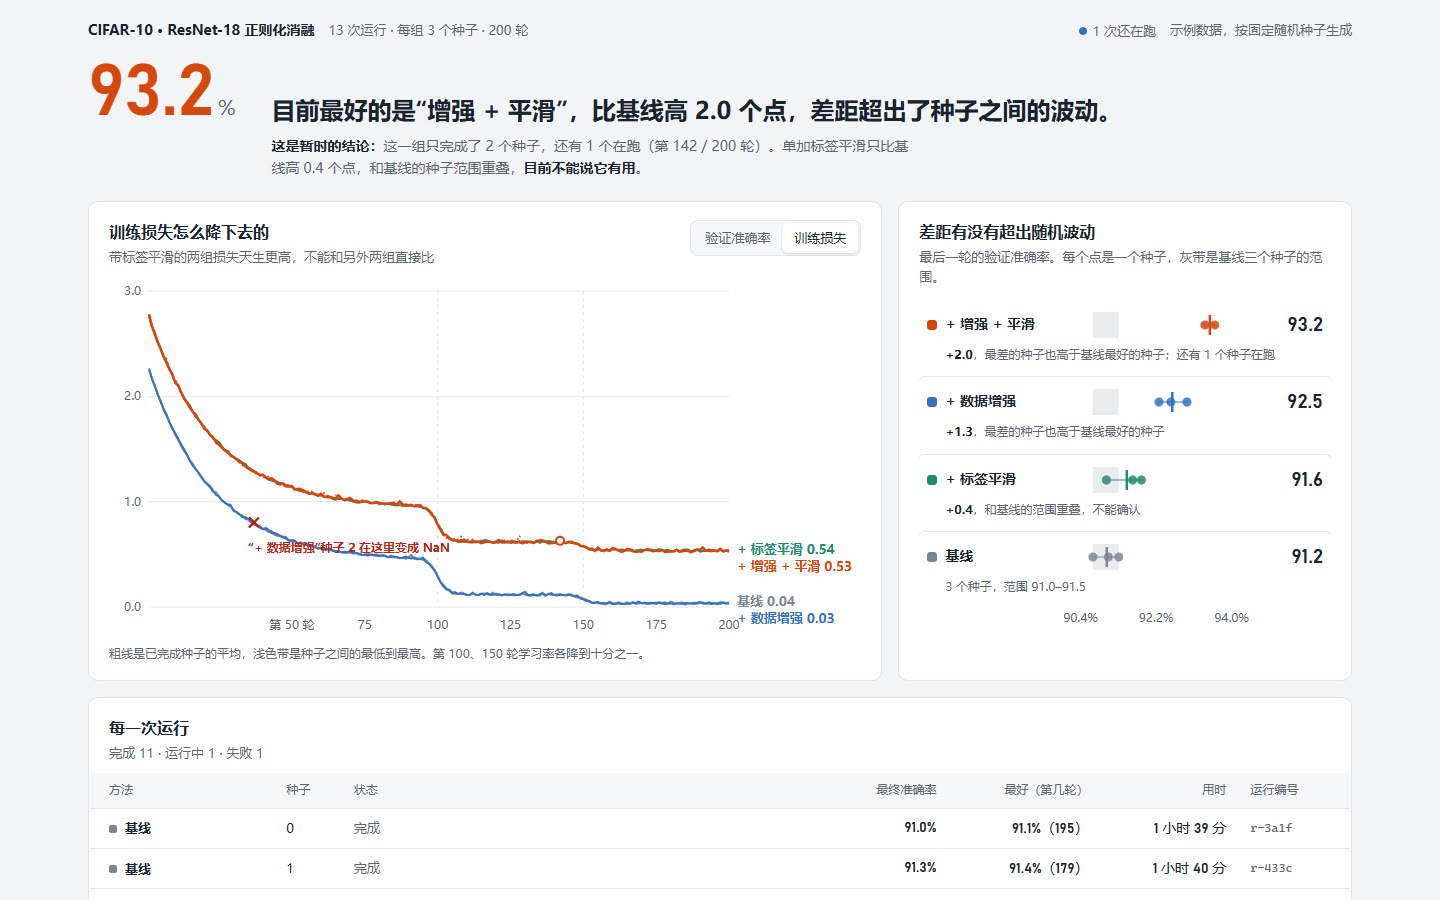
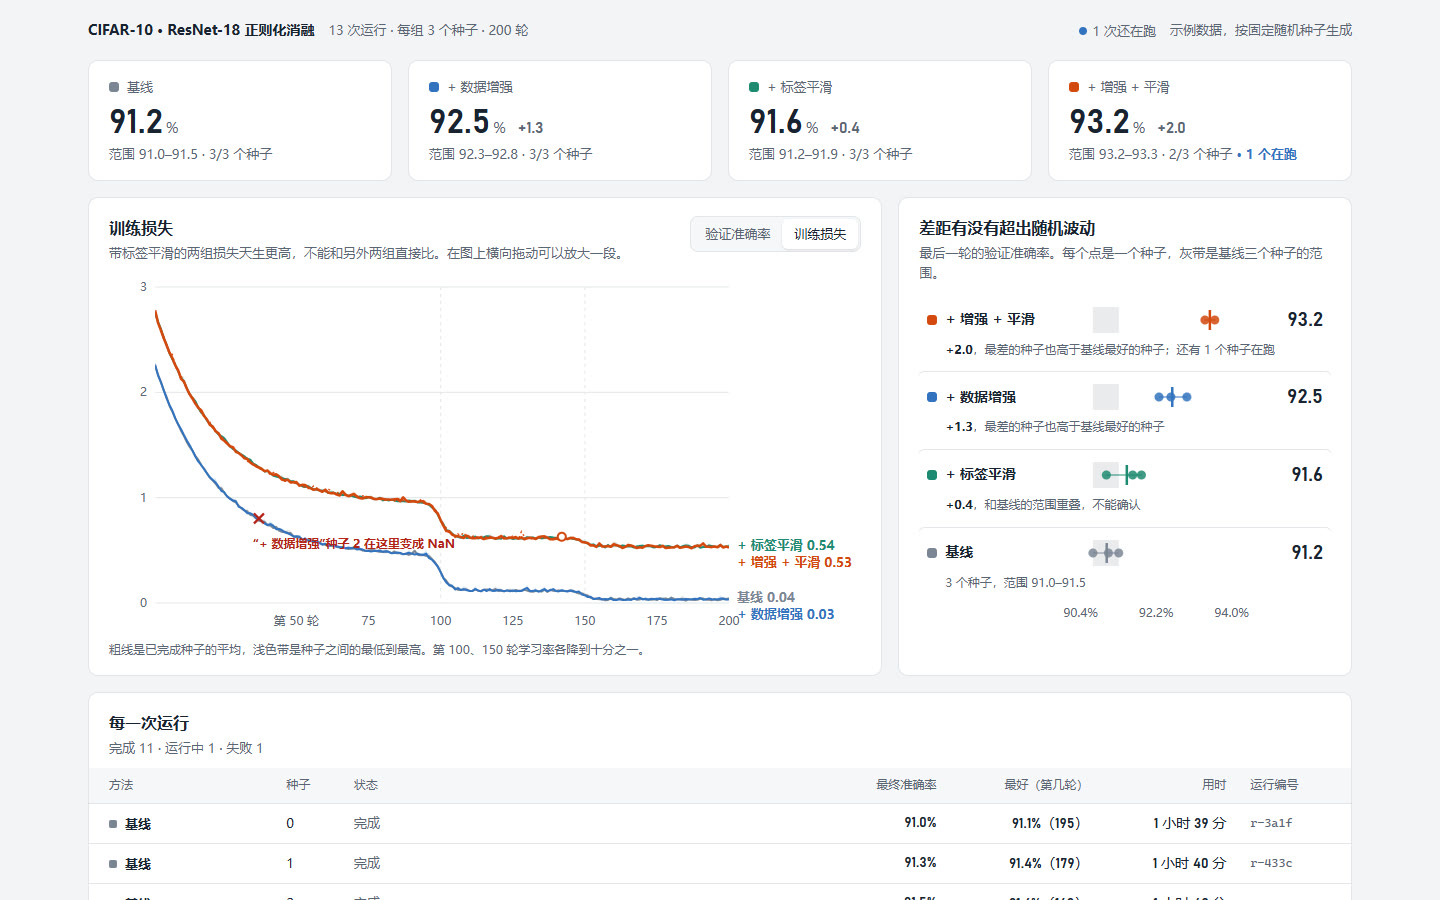
11.12 frontend-craft 维护：看板改成只摆数据并可放大，手记分清道理和口味
- 用户指出：看板上的分析是看的人自己做的，只放数据；结论先行的写法属于报告。默认头部改成指标卡，每张带种子范围和完成进度；“结论先行”留作选项。
- 按用户提到的“数据多了要能看局部”：图上横向拖动放大一段，纵轴随这一段重新定范围，可还原。
- 手记改正上一条的过度纠正：标题用宋体还是粗体是用户的个人偏好，不是规则；记下“先分清对方的理由是普遍道理还是个人口味”。

diff --git a/maintenance/frontend-craft/practice/2026-11/dashboard/index.html b/maintenance/frontend-craft/practice/2026-11/dashboard/index.html
@@ -33,7 +33,7 @@
   .kpi { background: var(--surface); border: 1px solid var(--line); border-radius: 10px; padding: 16px 20px; }
   .kpi .k { font-size: 13px; color: var(--ink-2); display: flex; align-items: center; gap: 8px; } .kpi .k i { width: 10px; height: 10px; border-radius: 3px; }
   .kpi .v { font: 600 34px/1.2 var(--num); margin-top: 6px; } .kpi .v small { font: 14px var(--sans); color: var(--ink-2); margin-left: 3px; }
-  .kpi .d { font-size: 13px; color: var(--ink-2); }
+  .kpi .d { font-size: 13px; color: var(--ink-2); } .kpi .delta { font: 500 16px var(--num); color: var(--ink-2); margin-left: 12px; } .kpi .running { color: var(--run); font-weight: 700; }
   @media (max-width: 640px) { .kpis { grid-template-columns: 1fr 1fr; gap: 10px; } .kpi { padding: 12px 14px; } .kpi .v { font-size: 28px; } }
   .grid { display: grid; grid-template-columns: minmax(0, 1.75fr) minmax(320px, 1fr); gap: 16px; }
   .card { background: var(--surface); border: 1px solid var(--line); border-radius: 10px; padding: 18px 20px 16px; min-width: 0; }
@@ -43,7 +43,9 @@
   .seg { display: inline-flex; background: var(--wash); border: 1px solid var(--line); border-radius: 8px; padding: 2px; }
   .seg button { font: 500 13px var(--sans); border: 0; background: transparent; color: var(--ink-2); height: 30px; padding: 0 12px; border-radius: 6px; cursor: pointer; }
   .seg button[aria-pressed="true"] { background: var(--surface); color: var(--ink); box-shadow: 0 1px 2px rgba(26, 34, 48, .14); }
-  #chart { margin-top: 10px; position: relative; }
+  .tools { display: flex; gap: 8px; align-items: center; }
+  .ghost { font: 500 13px var(--sans); height: 34px; padding: 0 12px; border-radius: 8px; border: 1px solid var(--ink); background: var(--surface); color: var(--ink); cursor: pointer; }
+  #chart { margin-top: 10px; position: relative; user-select: none; }
   #chart svg { display: block; width: 100%; overflow: visible; }
   svg text { font: 12px var(--sans); fill: var(--ink-2); }
   svg .end { font: 600 13px var(--sans); }
@@ -115,7 +117,8 @@
     <section class="card">
       <div class="head">
         <div><h2 id="chart-title"></h2><p class="sub" id="chart-sub"></p></div>
-        <div class="seg" id="metric" role="group" aria-label="指标"><button type="button" data-m="acc" aria-pressed="true">验证准确率</button><button type="button" data-m="loss" aria-pressed="false">训练损失</button></div>
+        <div class="tools"><button type="button" id="zoom" class="ghost" hidden>看全部</button>
+        <div class="seg" id="metric" role="group" aria-label="指标"><button type="button" data-m="acc" aria-pressed="true">验证准确率</button><button type="button" data-m="loss" aria-pressed="false">训练损失</button></div></div>
       </div>
       <div id="chart"></div>
       <p class="note">粗线是已完成种子的平均，浅色带是种子之间的最低到最高。第 100、150 轮学习率各降到十分之一。</p>
@@ -135,7 +138,7 @@
       <tbody id="rows"></tbody>
     </table></div>
   </section>
-  <p class="foot">练习页面：数据是合成的，用来练习“看板先回答问题”。把鼠标移到曲线上看每一轮的数值；点右侧某一行，只看这一组。</p>
+  <p class="foot">练习页面：数据是合成的，用来练习“看板先回答问题”。把鼠标移到曲线上看每一轮的数值；在图上横向拖动放大一段，双击还原；点右侧某一行，只突出这一组。</p>
 </div>
 
 <script>
@@ -181,10 +184,12 @@
     const ranked = METHODS.slice().sort((a, b) => stats[b.id].mean - stats[a.id].mean), top = ranked[0], s = stats[top.id], b = stats.base;
     const running = RUNS.filter(r => r.mid === top.id && r.status === 'running').length;
     const clear = s.min > b.max;
-    if (/[?&]head=cards/.test(location.search)) {   // 对照用：常见的“一排指标卡”
+    if (!/[?&]head=answer/.test(location.search)) {   // 默认只摆数据，分析留给看的人；?head=answer 是“结论先行”的写法
       $('answer').className = 'kpis';
-      $('answer').innerHTML = METHODS.map(m => { const st = stats[m.id], d = st.mean - b.mean;
-        return `<div class="kpi"><div class="k"><i style="background:${m.color}"></i>${m.name}</div><div class="v">${f1(st.mean)}<small>%</small></div><div class="d">${m.id === 'base' ? `${st.n} 个种子` : `${d >= 0 ? '+' : ''}${f1(d)} · ${st.n} 个种子`}</div></div>`; }).join('');
+      $('answer').innerHTML = METHODS.map(m => { const st = stats[m.id], d = st.mean - b.mean, total = RUNS.filter(r => r.mid === m.id && r.status !== 'failed').length, run = total - st.n;
+        return `<div class="kpi"><div class="k"><i style="background:${m.color}"></i>${m.name}</div>
+          <div class="v">${f1(st.mean)}<small>%</small>${m.id === 'base' ? '' : `<span class="delta">${d >= 0 ? '+' : ''}${f1(d)}</span>`}</div>
+          <div class="d">范围 ${f1(st.min)}–${f1(st.max)} · ${st.n}/${total} 个种子${run ? `<span class="running"> · ${run} 个在跑</span>` : ''}</div></div>`; }).join('');
       return;
     }
     $('answer').innerHTML = `<div class="big num">${f1(s.mean)}<small>%</small></div>
@@ -193,47 +198,65 @@
   })();
 
   // —— 曲线：按容器的实际宽度画，字号永远是真实的 12、13 像素 ——
+  let view = null;   // 放大后看的轮数范围 [从, 到]
+  function niceTicks(lo, hi, n) { const raw = (hi - lo) / n, mag = Math.pow(10, Math.floor(Math.log10(raw))), st = [1, 2, 2.5, 5, 10].map(k => k * mag).find(s => s >= raw);
+    const out = []; for (let v = Math.ceil(lo / st - 1e-9) * st; v <= hi + 1e-9; v += st) out.push(+v.toFixed(6)); return out; }
   function drawChart() {
-    const box = $('chart'), W = box.clientWidth, narrow = W < 520, H = narrow ? 260 : 360, L = 40, R = narrow ? 58 : 132, T = 14, B = 30;
-    const key = metric, range = key === 'acc' ? [84, 95] : [0, 3], x0 = key === 'acc' ? 40 : 1;   // 准确率从第 40 轮画起：之前低于 84%，画出来只会贴在底边上
-    const x = (e) => L + (e - x0) / (E - x0) * (W - L - R), y = (v) => T + (1 - (Math.min(Math.max(v, range[0]), range[1]) - range[0]) / (range[1] - range[0])) * (H - T - B);
-    let s = '';
-    const ticks = key === 'acc' ? [84, 86, 88, 90, 92, 94] : [0, 1, 2, 3];   // 轴要盖住全部数据，线不能贴在边框上走
-    ticks.forEach((v, i) => { s += `<line x1="${L}" x2="${W - R}" y1="${y(v)}" y2="${y(v)}" stroke="var(--line)"/><text x="${L - 8}" y="${y(v) + 4}" text-anchor="end">${key === 'acc' ? v + (i === ticks.length - 1 ? '%' : '') : v.toFixed(1)}</text>`; });
-    (narrow ? [50, 100, 150, 200] : [50, 75, 100, 125, 150, 175, 200]).forEach(e => { s += `<text x="${x(e)}" y="${H - 8}" text-anchor="middle">${e === 50 ? '第 50 轮' : e}</text>`; });
-    [100, 150].forEach(e => { s += `<line x1="${x(e)}" x2="${x(e)}" y1="${T}" y2="${H - B}" stroke="var(--line)" stroke-dasharray="3 4"/>`; });
-    const ends = [];
+    const box = $('chart'), W = box.clientWidth, narrow = W < 520, H = narrow ? 260 : 360, L = 46, R = narrow ? 58 : 132, T = 14, B = 30;
+    const key = metric, x0 = view ? view[0] : key === 'acc' ? 40 : 1, x1 = view ? view[1] : E;   // 准确率默认从第 40 轮画起：之前低于 84%
+    let range = key === 'acc' ? [84, 95] : [0, 3];
+    if (view) { let lo = Infinity, hi = -Infinity;   // 放大时纵轴跟着这一段的数据重新定，局部的差别才看得出来
+      RUNS.filter(r => r.status !== 'failed').forEach(r => { for (let e = x0; e <= Math.min(x1, r.stop); e++) { const v = r[key][e - 1]; if (v < lo) lo = v; if (v > hi) hi = v; } });
+      const pad = (hi - lo) * 0.08 || 0.1; range = [lo - pad, hi + pad]; }
+    const x = (e) => L + (e - x0) / (x1 - x0) * (W - L - R), y = (v) => T + (1 - (v - range[0]) / (range[1] - range[0])) * (H - T - B);
+    const fmt = (v) => key === 'acc' ? f1(v) : v.toFixed(2);
+    let s = `<defs><clipPath id="plot"><rect x="${L}" y="${T - 2}" width="${W - L - R}" height="${H - T - B + 4}"/></clipPath></defs>`;
+    const yt = view ? niceTicks(range[0], range[1], 5) : key === 'acc' ? [84, 86, 88, 90, 92, 94] : [0, 1, 2, 3];
+    const gap = yt.length > 1 ? yt[1] - yt[0] : 1, dec = gap >= 1 ? 0 : gap >= 0.1 ? 1 : 2;
+    yt.forEach((v, i) => { s += `<line x1="${L}" x2="${W - R}" y1="${y(v)}" y2="${y(v)}" stroke="var(--line)"/><text x="${L - 8}" y="${y(v) + 4}" text-anchor="end">${v.toFixed(dec)}${key === 'acc' && i === yt.length - 1 ? '%' : ''}</text>`; });
+    const xt = (view ? niceTicks(x0, x1, narrow ? 4 : 7) : narrow ? [50, 100, 150, 200] : [50, 75, 100, 125, 150, 175, 200]).filter(e => Number.isInteger(e) && e >= x0);
+    xt.forEach((e, i) => { s += `<text x="${x(e)}" y="${H - 8}" text-anchor="middle">${i === 0 ? `第 ${e} 轮` : e}</text>`; });
+    [100, 150].filter(e => e > x0 && e < x1).forEach(e => { s += `<line x1="${x(e)}" x2="${x(e)}" y1="${T}" y2="${H - B}" stroke="var(--line)" stroke-dasharray="3 4"/>`; });
+    const ends = []; s += '<g clip-path="url(#plot)">';
     METHODS.forEach(m => {
       const rs = RUNS.filter(r => r.mid === m.id && r.status !== 'failed'), full = rs.filter(r => r.status === 'done'), faded = focus && focus !== m.id;
       let top = '', bot = '', mean = '';
-      for (let e = x0; e <= E; e++) { const vs = full.map(r => r[key][e - 1]); const mn = Math.min(...vs), mx = Math.max(...vs), av = vs.reduce((a, b) => a + b, 0) / vs.length;
+      for (let e = x0; e <= x1; e++) { const vs = full.map(r => r[key][e - 1]); const mn = Math.min(...vs), mx = Math.max(...vs), av = vs.reduce((a, b) => a + b, 0) / vs.length;
         top += `${e === x0 ? 'M' : 'L'}${x(e).toFixed(1)} ${y(mx).toFixed(1)}`; bot = `L${x(e).toFixed(1)} ${y(mn).toFixed(1)}` + bot; mean += `${e === x0 ? 'M' : 'L'}${x(e).toFixed(1)} ${y(av).toFixed(1)}`;
-        if (e === E) ends.push({ m, v: av, y: y(av) }); }
+        if (e === x1) ends.push({ m, v: av, y: y(av) }); }
       s += `<g opacity="${faded ? 0.12 : 1}"><path d="${top}${bot}Z" fill="${m.color}" opacity=".16"/><path d="${mean}" fill="none" stroke="${m.color}" stroke-width="${m.id === 'both' ? 2.6 : 2}" stroke-linejoin="round"/>`;
-      rs.filter(r => r.status === 'running').forEach(r => { let d = ''; for (let e = x0; e <= r.stop; e++) d += `${e === x0 ? 'M' : 'L'}${x(e).toFixed(1)} ${y(r[key][e - 1]).toFixed(1)}`;
-        s += `<path d="${d}" fill="none" stroke="${m.color}" stroke-width="1.4" stroke-dasharray="2 3"/><circle cx="${x(r.stop)}" cy="${y(r[key][r.stop - 1])}" r="4" fill="var(--surface)" stroke="${m.color}" stroke-width="2"/>`; });
+      rs.filter(r => r.status === 'running' && r.stop > x0).forEach(r => { let d = ''; const to = Math.min(r.stop, x1); for (let e = x0; e <= to; e++) d += `${e === x0 ? 'M' : 'L'}${x(e).toFixed(1)} ${y(r[key][e - 1]).toFixed(1)}`;
+        s += `<path d="${d}" fill="none" stroke="${m.color}" stroke-width="1.4" stroke-dasharray="2 3"/>${r.stop <= x1 ? `<circle cx="${x(r.stop)}" cy="${y(r[key][r.stop - 1])}" r="4" fill="var(--surface)" stroke="${m.color}" stroke-width="2"/>` : ''}`; });
       s += '</g>';
     });
+    s += '</g>';
     // 线尾直接写名字和数值，不用图例；挨得太近就上下错开
     ends.sort((a, b) => a.y - b.y); for (let i = 1; i < ends.length; i++) if (ends[i].y - ends[i - 1].y < 17) ends[i].y = ends[i - 1].y + 17;
     ends.forEach(({ m, v, y: yy }) => { const faded = focus && focus !== m.id;
-      s += `<text class="end" x="${W - R + 8}" y="${yy + 4}" style="fill:${m.color}" opacity="${faded ? 0.25 : 1}">${narrow ? '' : m.name + '  '}${key === 'acc' ? f1(v) : v.toFixed(2)}</text>`; });
+      s += `<text class="end" x="${W - R + 8}" y="${yy + 4}" style="fill:${m.color}" opacity="${faded ? 0.25 : 1}">${narrow ? '' : m.name + '  '}${fmt(v)}</text>`; });
     const fail = RUNS.find(r => r.status === 'failed');
-    if (key === 'loss' && (!focus || focus === fail.mid)) { const fx = x(fail.stop), fy = y(fail.loss[fail.stop - 2]);
+    if (key === 'loss' && fail.stop > x0 && fail.stop < x1 && (!focus || focus === fail.mid)) { const fx = x(fail.stop), fy = y(fail.loss[fail.stop - 2]);
       s += `<path d="M${fx - 5} ${fy - 5}l10 10m0-10l-10 10" stroke="var(--fail)" stroke-width="2.4"/><text x="${fx - 6}" y="${fy + 30}" style="fill:var(--fail);font-weight:700">“+ 数据增强”种子 2 在这里变成 NaN</text>`; }
-    s += `<line id="cross" y1="${T}" y2="${H - B}" stroke="var(--ink)" stroke-width="1" opacity="0"/><rect id="hit" x="${L}" y="${T}" width="${W - L - R}" height="${H - T - B}" fill="transparent"/>`;
-    box.innerHTML = `<svg viewBox="0 0 ${W} ${H}" height="${H}" role="img" aria-label="${key === 'acc' ? '验证准确率' : '训练损失'}随训练轮数的变化，四组方法">${s}</svg><div class="tip" hidden></div>`;
-    const tip = box.querySelector('.tip'), cross = box.querySelector('#cross');
-    const move = (ev) => { const r = box.getBoundingClientRect(), px = (ev.touches ? ev.touches[0].clientX : ev.clientX) - r.left;
-      const e = Math.round(Math.min(E, Math.max(x0, x0 + (px - L) / (W - L - R) * (E - x0))));
+    s += `<rect id="sel" y="${T}" height="${H - T - B}" width="0" fill="var(--ink)" opacity=".08"/><line id="cross" y1="${T}" y2="${H - B}" stroke="var(--ink)" stroke-width="1" opacity="0"/><rect id="hit" x="${L}" y="${T}" width="${W - L - R}" height="${H - T - B}" fill="transparent" style="cursor:crosshair"/>`;
+    box.innerHTML = `<svg viewBox="0 0 ${W} ${H}" height="${H}" role="img" aria-label="${key === 'acc' ? '验证准确率' : '训练损失'}随训练轮数的变化，四组方法，第 ${x0} 到 ${x1} 轮">${s}</svg><div class="tip" hidden></div>`;
+    const tip = box.querySelector('.tip'), cross = box.querySelector('#cross'), sel = box.querySelector('#sel'), hit = box.querySelector('#hit');
+    const epochAt = (ev) => { const px = (ev.touches ? ev.touches[0].clientX : ev.clientX) - box.getBoundingClientRect().left; return Math.round(Math.min(x1, Math.max(x0, x0 + (px - L) / (W - L - R) * (x1 - x0)))); };
+    let dragFrom = null;
+    const move = (ev) => { const e = epochAt(ev);
+      if (dragFrom !== null) { const a = Math.min(dragFrom, e), b = Math.max(dragFrom, e); sel.setAttribute('x', x(a)); sel.setAttribute('width', x(b) - x(a)); tip.hidden = true; return; }
       cross.setAttribute('x1', x(e)); cross.setAttribute('x2', x(e)); cross.setAttribute('opacity', .5);
       tip.hidden = false; tip.style.top = (T + 60) + 'px'; tip.style.left = Math.min(x(e), W - 190) + 'px';
       tip.innerHTML = `第 ${e} 轮<br>` + METHODS.map(m => { const vs = done(m.id).map(r => r[key][e - 1]), av = vs.reduce((a, b) => a + b, 0) / vs.length;
-        return `<i style="background:${m.color}"></i>${m.name}　<b>${key === 'acc' ? av.toFixed(1) + '%' : av.toFixed(2)}</b>`; }).join('<br>'); };
-    const hit = box.querySelector('#hit'); hit.addEventListener('mousemove', move); hit.addEventListener('touchmove', move, { passive: true });
-    hit.addEventListener('mouseleave', () => { tip.hidden = true; cross.setAttribute('opacity', 0); });
-    $('chart-title').textContent = key === 'acc' ? '验证准确率怎么涨上来的' : '训练损失怎么降下去的';
-    $('chart-sub').textContent = key === 'acc' ? '从第 40 轮画起，纵轴从 84% 开始；更早的部分爬升太快，画进来会把后面的差别压扁' : '带标签平滑的两组损失天生更高，不能和另外两组直接比';
+        return `<i style="background:${m.color}"></i>${m.name}　<b>${fmt(av)}${key === 'acc' ? '%' : ''}</b>`; }).join('<br>'); };
+    hit.addEventListener('mousemove', move); hit.addEventListener('touchmove', move, { passive: true });
+    hit.addEventListener('mousedown', (ev) => { dragFrom = epochAt(ev); ev.preventDefault(); });
+    hit.addEventListener('mouseup', (ev) => { if (dragFrom === null) return; const e = epochAt(ev), a = Math.min(dragFrom, e), b = Math.max(dragFrom, e); dragFrom = null;
+      if (b - a >= 5) { view = [a, b]; drawChart(); } else sel.setAttribute('width', 0); });
+    hit.addEventListener('dblclick', () => { view = null; drawChart(); });
+    hit.addEventListener('mouseleave', () => { tip.hidden = true; cross.setAttribute('opacity', 0); if (dragFrom !== null) { dragFrom = null; sel.setAttribute('width', 0); } });
+    $('zoom').hidden = !view;
+    $('chart-title').textContent = key === 'acc' ? '验证准确率' : '训练损失';
+    $('chart-sub').textContent = view ? `放大：第 ${x0}–${x1} 轮，纵轴按这一段的数据重新定了范围` : (key === 'acc' ? '从第 40 轮画起（更早的部分低于 84%）。' : '带标签平滑的两组损失天生更高，不能和另外两组直接比。') + (narrow ? '' : '在图上横向拖动可以放大一段。');
   }
 
   // —— 排名 ——
@@ -268,6 +291,7 @@
     $('runs-sub').textContent = `完成 ${c('done')} · 运行中 ${c('running')} · 失败 ${c('failed')}${focus ? ' · 只突出“' + METHODS.find(m => m.id === focus).name + '”，再点一次取消' : ''}`;
   }
   function all() { drawChart(); drawRank(); drawRows(); }
+  $('zoom').onclick = () => { view = null; drawChart(); };
   $('metric').addEventListener('click', (e) => { const b = e.target.closest('button'); if (!b) return; metric = b.dataset.m;
     $('metric').querySelectorAll('button').forEach(o => o.setAttribute('aria-pressed', String(o === b))); drawChart(); });
   const pick = (e) => { const row = e.target.closest('.rrow'); if (!row) return; if (e.type === 'keydown' && e.key !== 'Enter' && e.key !== ' ') return; e.preventDefault(); focus = focus === row.dataset.m ? null : row.dataset.m; all(); };

diff --git a/maintenance/frontend-craft/practice/2026-11/JOURNAL.md b/maintenance/frontend-craft/practice/2026-11/JOURNAL.md
@@ -116,10 +116,12 @@
 ### 用户看过之后（2026-11-12）
 
 - **标题选宋体（A）。** 这篇不是严肃报道，粗黑体的一级标题破坏了整体淡雅的效果；二级标题用粗体“其实还好”。
-  - 我押的是 B，理由是用户以前嫌标题层级弱。押错了。**学到的：层级够不够，要看页面的气质。淡雅的阅读页靠字号和留白就能立住标题，再加粗反而吵；用户以前嫌层级弱的是工具页和展示页。不能把一次偏好当成到处适用的规则。**
-  - 定稿：一、二级标题都用宋体。“一级宋体、二级粗黑体”做成了备选（`?title=mix`），默认不用。
+  - 我当时写“押错了”，还据此总结了一条规则。用户随后纠正：两版差别其实不大，选宋体是个人喜好，只是能说出一些理由；**页面整体好属于审美的共性，宋体还是粗体属于个性，不必因为他的个人喜好强行改变自己的想法。**
+  - 所以这一条不算规则，只记为这位用户的偏好。我自己的看法保留：在没有粗体宋体可用的 Windows 上，粗黑体标题的层级更稳；宋体更有书卷气。两种都成立。
+  - **真正学到的是方法：用户选了和我不同的一版时，先分清他给的理由是一条普遍的道理，还是个人口味。前者改进我的判断，后者只记为偏好，最多做成一个可选项。**
+  - 定稿：这一页按用户的偏好用宋体。“一级宋体、二级粗黑体”和全粗黑体都留作选项（`?title=mix`、`?title=sans`）。
 - **深色做得也美观，但不如浅色。** 接近纯黑的深色适合夜里看，或者某些特定气质的网站，适用面窄。
-  - **学到的：浅色是默认；深色是照顾夜间阅读的适配，不是一个值得花主要力气的设计方向。** 页面保持跟随系统设置，演示和截图以浅色为准。
+  - 这一条里有道理也有口味。道理：近黑的深色适用面窄，不该当成默认。口味：浅色更好看。页面保持跟随系统设置，演示和截图以浅色为准。
 - 整体评价：这种风格做到这个程度“已经算很不错了”。
 
 ### 没做的、没验证的
@@ -156,9 +158,19 @@
 2. 标注文字压在了另一条曲线上（NaN 那个叉的说明）。挪到曲线下方的空白处。
 3. 手机上“最终 当前 92.9%”两个词叠在一起，是给完成的运行加前缀时没考虑还在跑的那一行。
 
-### 拿不准、请用户选的
+### 用户看过之后（2026-11-12）
 
-头部用“结论先行”（一句话加一个大数字）还是常见的“一排指标卡”。我偏向前者；后者四个数字一样大，读者得自己比较、自己下结论，而且看不出“还有 1 个种子在跑”。
+我做了两种头部请用户选：A 是“结论先行”（一句话加一个大数字），B 是常见的“一排指标卡”。我偏向 A。
+
+- 用户：只看视觉，A 好一些（上面是文字、下面是图和数据，橙色的 93.2 也好看）；**但作为数据看板，B 成功得多。看板上的分析基本是看的人自己做，股市和基金的看板都只放数据。**
+- 这是一条普遍的道理，不是口味，我接受：**我把“看板”和“报告”混在一起了。看板是给会自己分析的人反复看的，只摆数据；替读者下结论的那句话，属于写给别人看的报告。** 而且那句自动生成的结论可能下错，分析的人并不想被它带着走。
+- 我保留的一点：“这一组还有 1 个种子在跑”“种子之间的范围”不是结论，是数据。所以 B 的每张卡片补上了范围和“2/3 个种子 · 1 个在跑”。
+- 改法：默认用指标卡；“结论先行”留作 `?head=answer`，适合周报这类场合。
+- 用户另外提到：**数据量更大时，看板需要拆开来看，比如放大图看局部、单独的对比图。** 这次加了在图上横向拖动放大一段，纵轴跟着这一段重新定范围，双击或点“看全部”还原。放大到最后 50 轮后，“标签平滑”和基线两条色带明显交叠，这在全图上看不出来，正好说明“看局部”的价值。单独的对比图没有做。
+
+### 拿不准的
+
+没有。
 
 ### 没做的、没验证的
 
